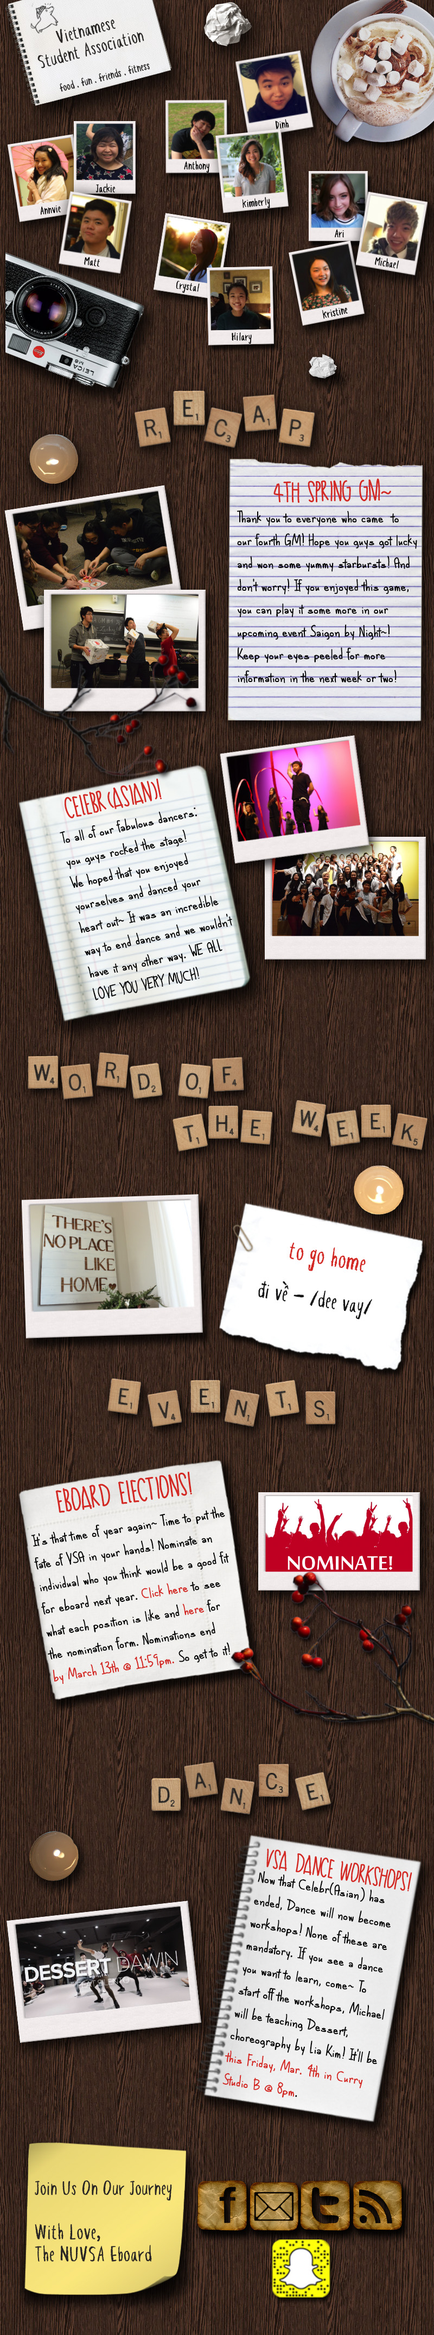
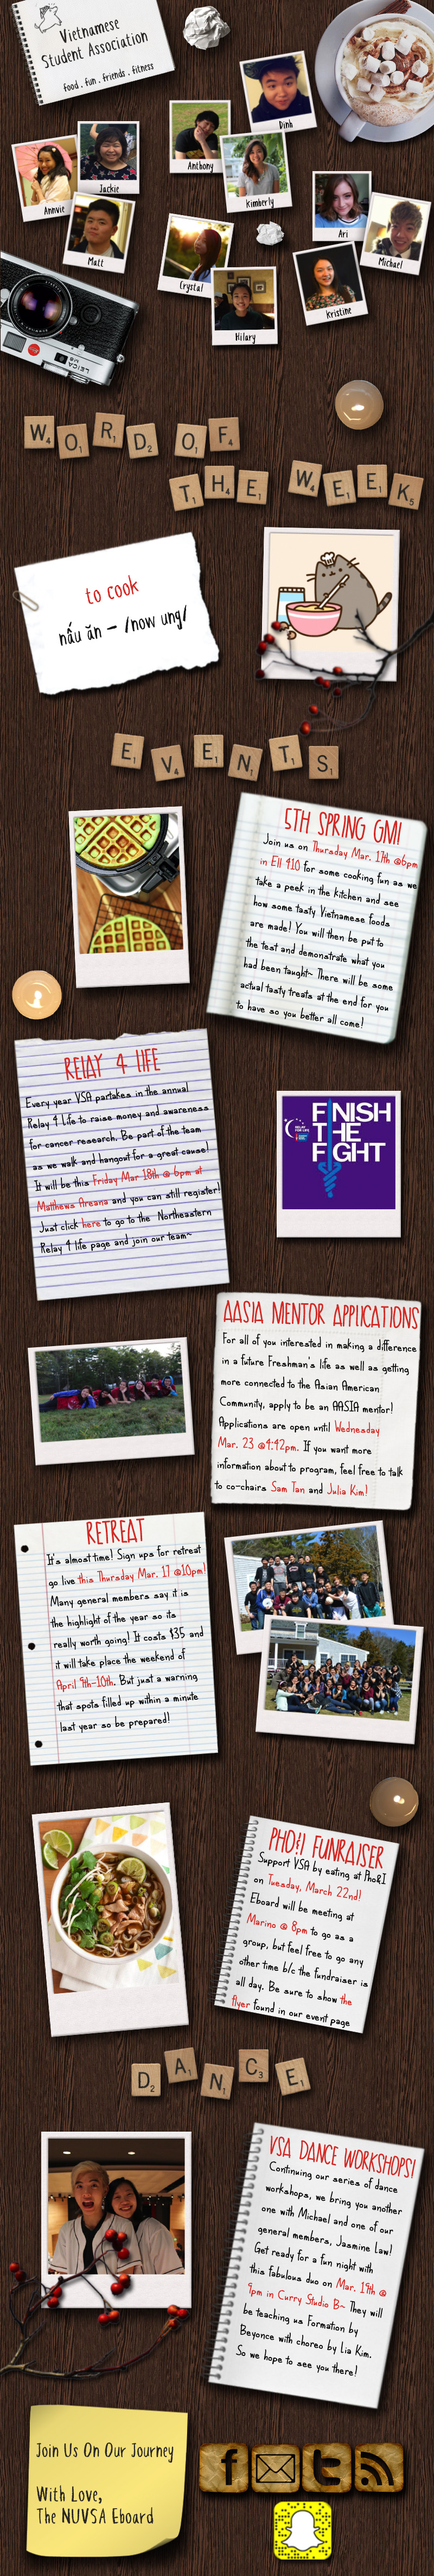
update current newsletter

diff --git a/index.html b/index.html
@@ -54,20 +54,27 @@
     <!-- Matt was here LOL -->
     <!-- ...mmmm check out dat source -->
     <div id="newsletter-container">
-      <img id="newsletter" src="images/winterNewsletter.jpg" border="0" width="800" height="4300" orgWidth="800" orgHeight="4300" usemap="#image-maps-2016-03-02-020533" alt="" />
+      <img id="newsletter" src="images/winterNewsletter.jpg" border="0" width="800" height="4742" orgWidth="800" orgHeight="4742" usemap="#image-maps-2016-03-16-093138" alt="" />
       <!--<canvas id="centipede-container" width="400" height="1000" style="position:absolute;z-index:1;border:1px solid black;">Your browser does not support the HTML5 canvas tag.</canvas>-->
     </div>
-    <map name="image-maps-2016-03-02-020533" id="newsletterMap">
-      <area  alt="" title="Word of the Week" href="http://www.vsa.neu.edu/#cboxdiv" shape="rect" coords="0,2198,800,2528" style="outline:none;" target="_self"     />
-      <area  alt="" title="NUVSA Facebook" href="https://www.facebook.com/groups/NUVSA/" shape="rect" coords="363,4017,453,4107" style="outline:none;" target="_self"     />
-      <area  alt="" title="Send us an email!" href="mailto:thenuvsaeboard@gmail.com" shape="rect" coords="460,4018,550,4108" style="outline:none;" target="_self"     />
-      <area  alt="" title="NUVSA Twitter" href="https://twitter.com/nuvsa" shape="rect" coords="555,4016,645,4106" style="outline:none;" target="_self"     />
-      <area  alt="" title="NUVSA Website" href="http://www.vsa.neu.edu/" shape="rect" coords="650,4015,740,4105" style="outline:none;" target="_self"     />
-      <area  alt="" title="NUVSA Snapchat" href="http://nuvsa.github.io/images/vsaSnapchat.jpg" shape="rect" coords="502,4125,609,4233" style="outline:none;" target="_self"     />
-      <area  alt="" title="Anthony?" href="javascript:rickRoll()" shape="poly" coords="309,186,416,186,414,249,396,246,401,293,310,291" style="outline:none;" target="_self"     />
-      <area  alt="" title="E-board position descriptions" href="https://docs.google.com/document/d/1im4izdFArY043MMbZa3t-xw52_S5wt0FJk2awIQLQTA/edit" shape="poly" coords="256,2921,346,2909,350,2931,260,2945" style="outline:none;" target="_self"     />
-      <area  alt="" title="E-board nomination form" href="https://docs.google.com/forms/d/1yHkP0x6JV67XWpyMoQgdhelwzNaKybE3-kenvPcL6k8/viewform" shape="poly" coords="332,2949,373,2943,380,2971,336,2978" style="outline:none;" target="_self"     />
-      <area  alt="" title="VSA Dance Practice!!" href="https://www.facebook.com/events/1094623953935809/" shape="poly" coords="411,3771,682,3814,665,3890,398,3847" style="outline:none;" target="_self"     />
+    <map name="image-maps-2016-03-16-093138" id="newsletterMap">
+      <area  alt="" title="Word of the Week" href="http://www.vsa.neu.edu/#cboxdiv" shape="rect" coords="0,970,800,1279" style="outline:none;" target="_self"     />
+      <area  alt="" title="Join our team!!" href="http://main.acsevents.org/site/TR?fr_id=73137&pg=team&team_id=1912704" shape="rect" coords="146,2240,191,2263" style="outline:none;" target="_self"     />
+      <area  alt="" title="Sam Tan" href="https://scontent-mia1-1.xx.fbcdn.net/hphotos-xfa1/v/t1.0-9/1907463_1435171866773921_8450805786867102896_n.jpg?oh=e5e35c4ff1c1abe6463a0c5636d5f763&oe=57553C0D" shape="rect" coords="497,2725,564,2750" style="outline:none;" target="_self"     />
+      <area  alt="" title="Julia Kim" href="https://scontent-mia1-1.xx.fbcdn.net/hphotos-xpl1/v/t1.0-9/12832481_10208427819275069_7727602003817224443_n.jpg?oh=19e9605a3961d983c3f03e240741c559&oe=578AE14D" shape="rect" coords="603,2725,678,2758" style="outline:none;" target="_self"     />
+      <area  alt="" title="NUVSA Facebook" href="https://www.facebook.com/groups/NUVSA/" shape="rect" coords="367,4498,457,4588" style="outline:none;" target="_self"     />
+      <area  alt="" title="Send us an email!" href="mailto:thenuvsaeboard@gmail.com" shape="rect" coords="463,4499,553,4589" style="outline:none;" target="_self"     />
+      <area  alt="" title="NUVSA Twitter" href="https://twitter.com/nuvsa" shape="rect" coords="558,4496,648,4586" style="outline:none;" target="_self"     />
+      <area  alt="" title="NUVSA Website" href="http://www.vsa.neu.edu/" shape="rect" coords="654,4497,744,4587" style="outline:none;" target="_self"     />
+      <area  alt="" title="NUVSA Snapchat" href="http://nuvsa.github.io/images/vsaSnapchat.jpg" shape="rect" coords="505,4605,611,4713" style="outline:none;" target="_self"     />
+      <area  alt="" title="Anthony" href="javascript:rickRoll()" shape="poly" coords="317,189,421,189,420,248,403,251,408,292,318,292" style="outline:none;" target="_self"     />
+      <area  alt="" title="VSA Spring GM #5" href="https://www.facebook.com/events/1515077635467077/" shape="poly" coords="574,1544,775,1575,773,1605,559,1574,554,1607,474,1591,482,1561,572,1575" style="outline:none;" target="_self"     />
+      <area  alt="" title="Relay for Life 2016" href="https://www.facebook.com/events/985523818193244/" shape="poly" coords="167,2158,378,2139,383,2166,203,2200,206,2222,65,2236,67,2201,167,2191" style="outline:none;" target="_self"     />
+      <area  alt="" title="AASIA Mentor Applications!!" href="https://www.facebook.com/events/1279535095409727/" shape="poly" coords="613,2611,703,2617,702,2649,553,2646,554,2676,398,2667,403,2637,614,2642" style="outline:none;" target="_self"     />
+      <area  alt="" title="Christina's Ranch Part III" href="https://www.facebook.com/events/967250303370889/" shape="poly" coords="139,2892,380,2872,385,2903,143,2920" style="outline:none;" target="_self"     />
+      <area  alt="" title="VSA Pho & I Fundraiser!!" href="https://www.facebook.com/events/192153894495111/" shape="poly" coords="491,3443,674,3475,671,3505,491,3472" style="outline:none;" target="_self"     />
+      <area  alt="" title="Ayyyy" href="https://www.facebook.com/events/576451762509924/" shape="poly" coords="618,4189,721,4207,716,4236,642,4230,638,4261,450,4226,456,4194,618,4222" style="outline:none;" target="_self"     />
+      <area  alt="" title="" href="javascript:alert('8:00 SHARP')" shape="poly" coords="454,3515,571,3539,569,3569,451,3546" style="outline:none;" target="_self"     />
     </map>
   </body>
   <script>
